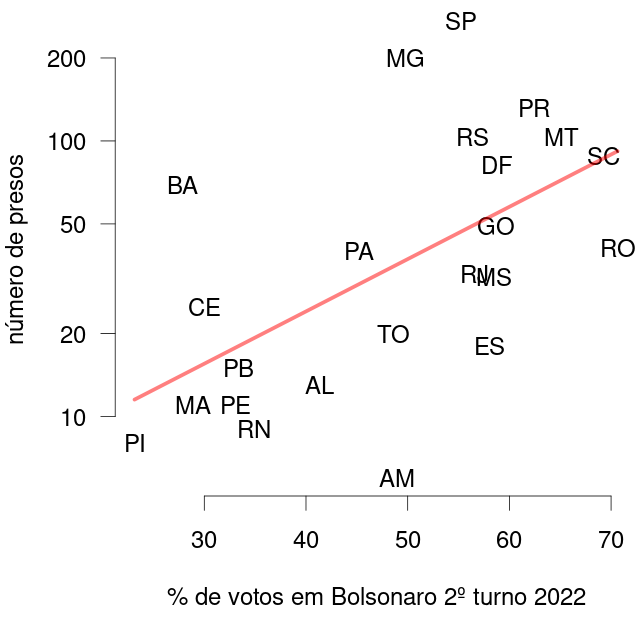
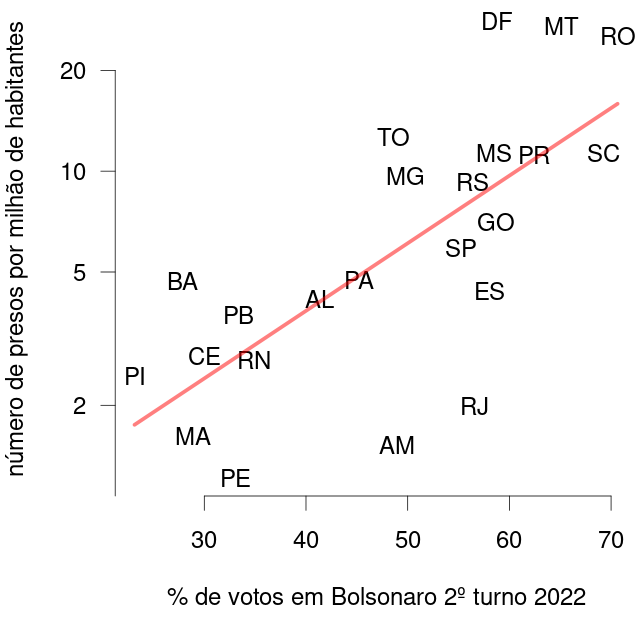
Divide the number of imprisoned people by the population of the state

diff --git a/README.md b/README.md
@@ -34,43 +34,45 @@ Cabe observar que a faixa de idade com maior representatividade entre as mulhere
 
 O número de pessoas por estado está indicado na tabela abaixo (a informação do estado de origem está ausente para 43 pessoas):
 
-|estado|número de pessoas presas|porcentagem do total|
-|-|-|-|
-|SP|272|19.6%|
-|MG|200|14.4%|
-|PR|132|9.5%|
-|MT|103|7.4%|
-|RS|103|7.4%|
-|SC|88|6.3%|
-|DF|82|5.9%|
-|BA|69|5.0%|
-|GO|49|3.5%|
-|RO|41|3.0%|
-|PA|40|2.9%|
-|RJ|33|2.4%|
-|MS|32|2.3%|
-|CE|25|1.8%|
-|TO|20|1.4%|
-|ES|18|1.3%|
-|PB|15|1.1%|
-|AL|13|0.9%|
-|MA|11|0.8%|
-|PE|11|0.8%|
-|RN|9|0.6%|
-|PI|8|0.6%|
-|AM|6|0.4%|
-|AC|3|0.2%|
-|AP|1|0.1%|
-|RR|1|0.1%|
-|SE|1|0.1%|
+|estado|número de pessoas presas|porcentagem do total|presos/população|
+|-|-|-|-|
+|SP|272|19.6%|5.91|
+|MG|200|14.4%|9.65|
+|PR|132|9.5%|11.15|
+|MT|103|7.4%|27.22|
+|RS|103|7.4%|9.29|
+|SC|88|6.3%|11.34|
+|DF|82|5.9%|28.05|
+|BA|69|5.0%|4.71|
+|GO|49|3.5%|7.05|
+|RO|41|3.0%|25.37|
+|PA|40|2.9%|4.74|
+|RJ|33|2.4%|1.99|
+|MS|32|2.3%|11.29|
+|CE|25|1.8%|2.80|
+|TO|20|1.4%|12.62|
+|ES|18|1.3%|4.38|
+|PB|15|1.1%|3.72|
+|AL|13|0.9%|4.16|
+|MA|11|0.8%|1.62|
+|PE|11|0.8%|1.22|
+|RN|9|0.6%|2.72|
+|PI|8|0.6%|2.45|
+|AM|6|0.4%|1.52|
+|AC|3|0.2%|3.62|
+|AP|1|0.1%|1.29|
+|RR|1|0.1%|1.58|
+|SE|1|0.1%|0.45|
 
-O número de presos por estado está relacionado à [porcentagem de votos em
+O número de presos por estado, dividido pela
+[população](populacao-2022.csv), está relacionado à [porcentagem de votos em
 Jair Bolsonaro no segundo turno da eleição presidencial de
 2022](eleicao-2022.csv), como indica o gráfico abaixo.
 
 ![figure](votos-bolsonaro-numero-presos.png)
 
-Neste gráfico, cada estado está representado pela sua sigla. Foram incluídos na análise os estados que apresentam número de presos maior do que 3, para efeitos de confiabilidade da análise. Note que o eixo vertical do gráfico (número de presos) está em escala logarítmica, o que é adequado para variáveis de contagem. A correlação entre as duas variáveis é significativamente diferente de zero (_r_ = 0.57,_t_[21] = 3.21, _p_ < 0.01). A linha de regressão entre as duas variáveis está indicada em vermelho no gráfico.
+Neste gráfico, cada estado está representado pela sua sigla.
+Foram incluídos na análise os estados que apresentam número de presos maior do que 3, para efeitos de confiabilidade da análise. A população de cada estado corresponde àquela publicada pelo IBGS na [prévia do censo de 2022](https://ftp.ibge.gov.br/Censos/Censo_Demografico_2022/Previa_da_Populacao/POP2022_Municipios.pdf). Note que o eixo vertical do gráfico (número de presos) está em escala logarítmica, o que é adequado para variáveis de contagem. A correlação entre as duas variáveis é significativamente diferente de zero (_r_ = 0.72,_t_[21] = 4.71, _p_ < 0.001). A linha de regressão entre as duas variáveis está indicada em vermelho no gráfico.
 
 ## Author
 
